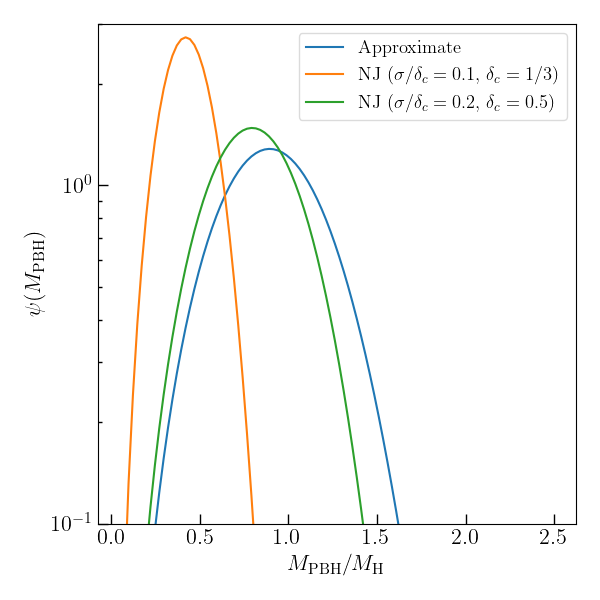
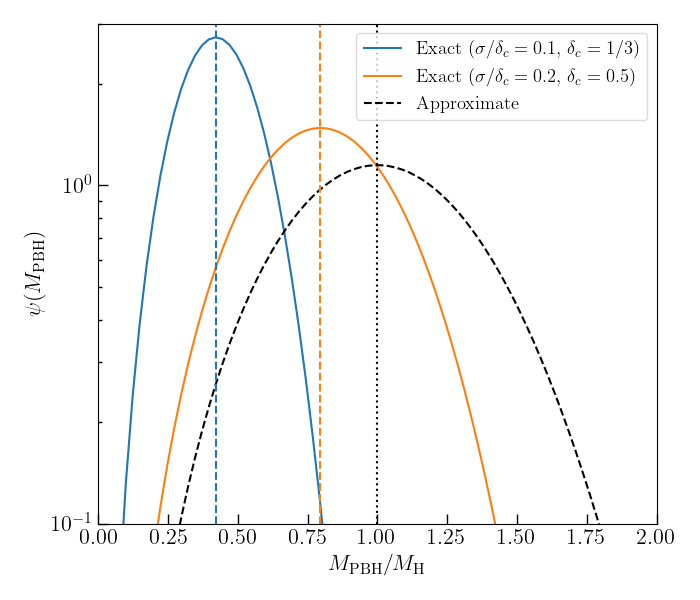
Compare exact and approximate critical collapse MFs, with more refined treatment of the horizon mass in the approximate MF.

diff --git a/Niemeyer_Jedamzik_98.py b/Niemeyer_Jedamzik_98.py
@@ -243,30 +243,56 @@ def Mmax_NJ_approx(m, K, gamma, delta_c, sigma_PS):
     return K * np.power(sigma_PS**2 / delta_c, gamma)
 
 
-# Plot the mass functions
+# Plot mass functions against the horizon mass
 m_H = 1
 m_pbh_plotting = np.linspace(0.05*m_H, 2.5*m_H, 100)
-plt.figure(figsize=(6, 6))
-plt.plot(m_pbh_plotting/m_H, mf_Yokoyama(m_pbh_plotting, m_p=m_H*np.power(1+gamma, -gamma), gamma=0.36), label="Approximate")
-plt.plot(m_pbh_plotting/m_H, mf_NJ98(m_pbh_plotting, K=3.3*m_H, gamma=0.36, delta_c=1/3, sigma_PS=0.1*1/3), label="NJ $(\sigma/\delta_c = 0.1$, $\delta_c = 1/3$)")
-plt.plot(m_pbh_plotting/m_H, mf_NJ98(m_pbh_plotting, K=3.3*m_H, gamma=0.36, delta_c=0.5, sigma_PS=0.2*0.5), label="NJ $(\sigma/\delta_c = 0.2$, $\delta_c = 0.5$)")
-#plt.plot(m_pbh_plotting/m_H, mf_NJ98(m_pbh_plotting, K=3.3*m_H, gamma=0.36, delta_c=0.5, sigma_PS=0.1*0.5), label="NJ $(\sigma/\delta_c = 0.1$, $\delta_c = 0.5$)")
-#plt.plot(m_pbh_plotting/m_H, mf_NJ98(m_pbh_plotting, K=3.3*m_H, gamma=0.36, delta_c=1/3, sigma_PS=0.2*1/3), label="NJ $(\sigma/\delta_c = 0.2$, $\delta_c = 1/3$)")
-#plt.plot(m_pbh_plotting/m_H, Gaussian(m_pbh_plotting, m_H, sigma=0.374), label="Gaussian", color='k', linestyle="dashed", alpha=0.75)
+fig, ax = plt.subplots(figsize=(7, 6))
+ax1 = ax.twinx()
+ax.plot(m_pbh_plotting/m_H, mf_NJ98(m_pbh_plotting, K=3.3*m_H, gamma=0.36, delta_c=1/3, sigma_PS=0.1*1/3), color="tab:blue", label="$\sigma/\delta_c = 0.1$, $\delta_c = 1/3$")
+ax.plot(m_pbh_plotting/m_H, mf_NJ98(m_pbh_plotting, K=3.3*m_H, gamma=0.36, delta_c=0.5, sigma_PS=0.2*0.5), color="tab:orange", label="$\sigma/\delta_c = 0.2$, $\delta_c = 0.5$")
+ax1.plot(m_pbh_plotting/m_H, mf_Yokoyama(m_pbh_plotting, m_p=Mmax_NJ_approx(m_pbh_plotting, K=3.3*m_H, gamma=0.36, delta_c=1/3, sigma_PS=0.1*1/3), gamma=0.36), color="k", linestyle="dashed", label="$\sigma/\delta_c = 0.1$, $\delta_c = 1/3$")
+ax1.plot(m_pbh_plotting/m_H, mf_Yokoyama(m_pbh_plotting, m_p=Mmax_NJ_approx(m_pbh_plotting, K=3.3*m_H, gamma=0.36, delta_c=0.5, sigma_PS=0.2*0.5), gamma=0.36), color="k", linestyle="dotted", label="$\sigma/\delta_c = 0.2$, $\delta_c = 0,5$")
+ax.vlines(Mmax_NJ(m_pbh_plotting, K=3.3*m_H, gamma=0.36, delta_c=1/3, sigma_PS=0.1*1/3)/m_H, ymin=0.1, ymax=3, linestyle='dashed', color='tab:blue')
+ax.vlines(Mmax_NJ(m_pbh_plotting, K=3.3*m_H, gamma=0.36, delta_c=0.5, sigma_PS=0.2*0.5)/m_H, ymin=0.1, ymax=3, linestyle='dashed', color='tab:orange')
+ax.vlines(Mmax_NJ_approx(m_pbh_plotting, K=3.3*m_H, gamma=0.36, delta_c=1/3, sigma_PS=0.1*1/3)/m_H, ymin=0.1, ymax=3, linestyle='dotted', color='tab:blue')
+ax.vlines(Mmax_NJ_approx(m_pbh_plotting, K=3.3*m_H, gamma=0.36, delta_c=0.5, sigma_PS=0.2*0.5)/m_H, ymin=0.1, ymax=3, linestyle='dotted', color='tab:orange')
 
-ax = plt.gca()
-#ax.vlines(Mmax_NJ(m_pbh_plotting, K=3.3*m_H, gamma=0.36, delta_c=1/3, sigma_PS=0.1*1/3)/m_H, ymin=0.1, ymax=3, linestyle='dotted', color='tab:orange')
-#ax.vlines(Mmax_NJ(m_pbh_plotting, K=3.3*m_H, gamma=0.36, delta_c=0.5, sigma_PS=0.2*0.5)/m_H, ymin=0.1, ymax=3, linestyle='dotted', color='tab:green')
-#ax.vlines(Mmax_NJ_approx(m_pbh_plotting, K=3.3*m_H, gamma=0.36, delta_c=1/3, sigma_PS=0.1*1/3)/m_H, ymin=0.1, ymax=3, linestyle='dashed', color='tab:orange')
-#ax.vlines(Mmax_NJ_approx(m_pbh_plotting, K=3.3*m_H, gamma=0.36, delta_c=0.5, sigma_PS=0.2*0.5)/m_H, ymin=0.1, ymax=3, linestyle='dashed', color='tab:green')
+ax.set_xlabel("$M_\mathrm{PBH} / M_\mathrm{H}$")
+ax.set_ylabel("$\psi(M_\mathrm{PBH})$")
+ax.set_yscale("log")
+ax1.set_yscale("log")
+ax.set_xlim(0., 2)
+ax1.set_xlim(0., 2)
+ax.set_ylim(0.1, 3)
+ax1.set_ylim(0.1, 3)
+ax.legend(fontsize="small", title="Exact")
+ax1.legend(fontsize="small", title="Approximate", loc=[0.58, 0.61])
+ax1.get_yaxis().set_visible(False)
+fig.tight_layout()
+plt.savefig("./Figures/Critical_collapse/MF_comparison_approx_exact.png")
 
-plt.xlabel("$M_\mathrm{PBH} / M_\mathrm{H}$")
-plt.ylabel("$\psi(M_\mathrm{PBH})$")
-plt.yscale("log")
-plt.ylim(0.1, 3)
-plt.legend(fontsize="small")
-plt.tight_layout()
+
+# Plot mass functions against the horizon mass
+m_H = 1
+m_pbh_plotting = np.linspace(0.05*m_H, 2.5*m_H, 100)
+fig, ax = plt.subplots(figsize=(7, 6))
+ax.plot(m_pbh_plotting/m_H, mf_NJ98(m_pbh_plotting, K=3.3*m_H, gamma=0.36, delta_c=1/3, sigma_PS=0.1*1/3), color="tab:blue", label="Exact ($\sigma/\delta_c = 0.1$, $\delta_c = 1/3$)")
+ax.plot(m_pbh_plotting/m_H, mf_NJ98(m_pbh_plotting, K=3.3*m_H, gamma=0.36, delta_c=0.5, sigma_PS=0.2*0.5), color="tab:orange", label="Exact ($\sigma/\delta_c = 0.2$, $\delta_c = 0.5$)")
+ax.plot(m_pbh_plotting/m_H, mf_Yokoyama(m_pbh_plotting, m_p=m_H, gamma=0.36), color="k", linestyle="dashed", label="Approximate")
+ax.vlines(Mmax_NJ(m_pbh_plotting, K=3.3*m_H, gamma=0.36, delta_c=1/3, sigma_PS=0.1*1/3)/m_H, ymin=0.1, ymax=3, linestyle='dashed', color='tab:blue')
+ax.vlines(Mmax_NJ(m_pbh_plotting, K=3.3*m_H, gamma=0.36, delta_c=0.5, sigma_PS=0.2*0.5)/m_H, ymin=0.1, ymax=3, linestyle='dashed', color='tab:orange')
+ax.vlines(m_H/m_H, ymin=0.1, ymax=3, linestyle='dotted', color="k")
+
+ax.set_xlabel("$M_\mathrm{PBH} / M_\mathrm{H}$")
+ax.set_ylabel("$\psi(M_\mathrm{PBH})$")
+ax.set_yscale("log")
+ax1.set_yscale("log")
+ax.set_xlim(0., 2)
+ax.set_ylim(0.1, 3)
+ax.legend(fontsize="small")
+fig.tight_layout()
 plt.savefig("./Figures/Critical_collapse/MF_comparison_NJ_Yokoyama.png")
+
 
 
 # Plot the mass functions against the maximum value
